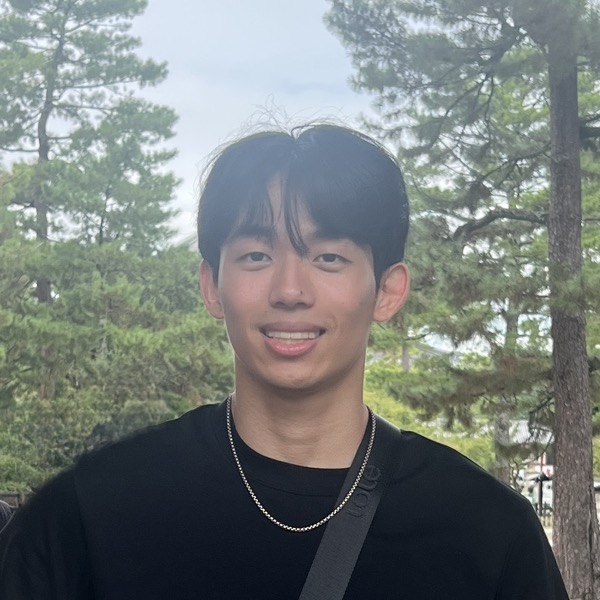
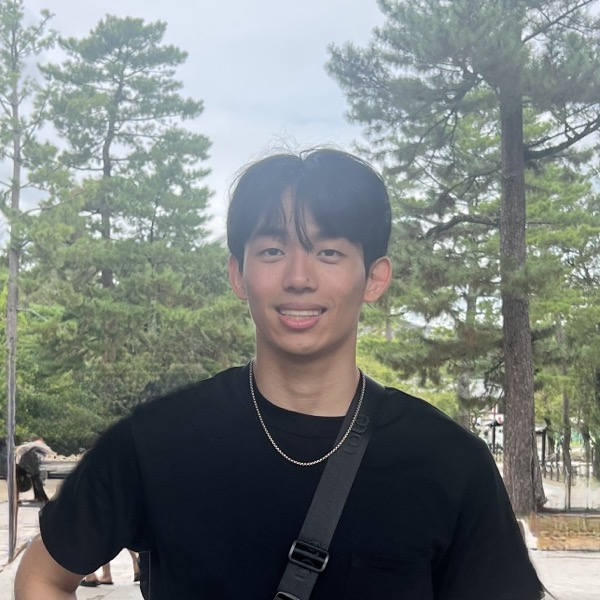
Use re-cropped profile photo

diff --git a/index.html b/index.html
@@ -16,7 +16,7 @@
     <meta property="og:title" content="Michael Peng">
     <meta property="og:description" content="Engineer/researcher at The D. E. Shaw Group. MIT alum.">
     <meta property="og:url" content="https://michael-peng.com/">
-    <meta property="og:image" content="https://michael-peng.com/images/michael-peng.jpg?v=2">
+    <meta property="og:image" content="https://michael-peng.com/images/michael-peng.jpg?v=3">
     <meta property="og:image:alt" content="Michael Peng">
     <!-- X/Twitter -->
     <meta name="twitter:card" content="summary">
@@ -29,7 +29,7 @@
       "@type": "Person",
       "name": "Michael Peng",
       "url": "https://michael-peng.com/",
-      "image": "https://michael-peng.com/images/michael-peng.jpg?v=2",
+      "image": "https://michael-peng.com/images/michael-peng.jpg?v=3",
       "jobTitle": "Engineer/Researcher",
       "worksFor": { "@type": "Organization", "name": "The D. E. Shaw Group", "url": "https://www.deshaw.com/" },
       "alumniOf": { "@type": "CollegeOrUniversity", "name": "Massachusetts Institute of Technology", "url": "https://web.mit.edu/" },
@@ -65,7 +65,7 @@
         </div>
         <!-- To set your photo: save a square-ish image as images/michael-peng.jpg -->
         <div class="photo">
-          <a href="images/michael-peng.jpg?v=2"><img alt="Michael Peng" src="images/michael-peng.jpg?v=2" onerror="this.closest('.photo').style.display='none'"></a>
+          <a href="images/michael-peng.jpg?v=3"><img alt="Michael Peng" src="images/michael-peng.jpg?v=3" onerror="this.closest('.photo').style.display='none'"></a>
         </div>
       </div>
     </div>
